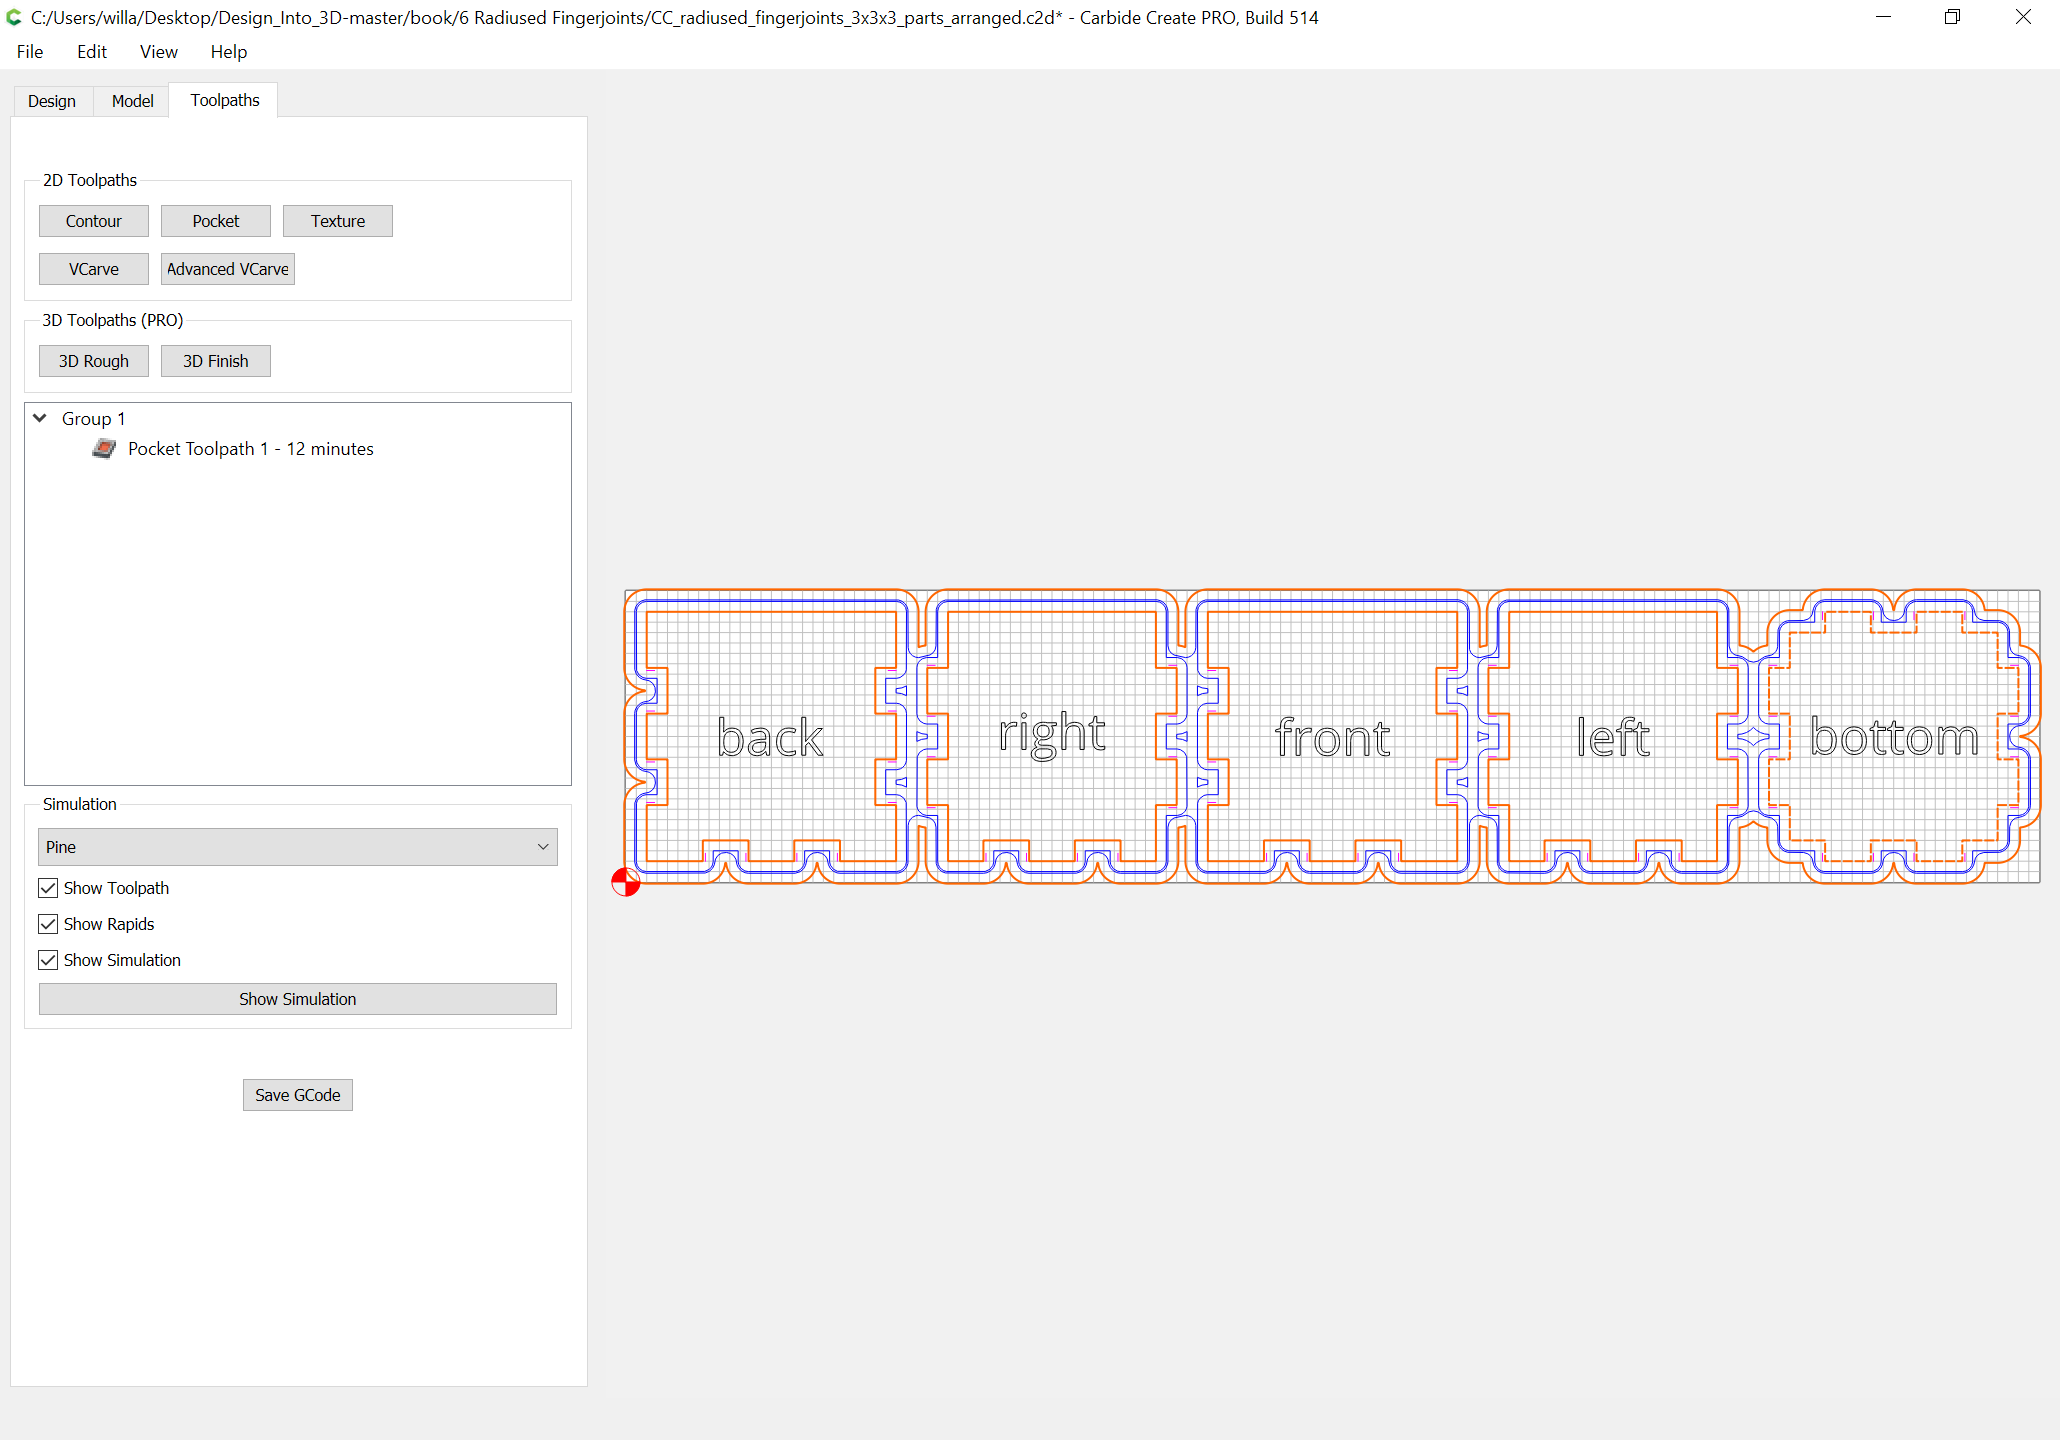
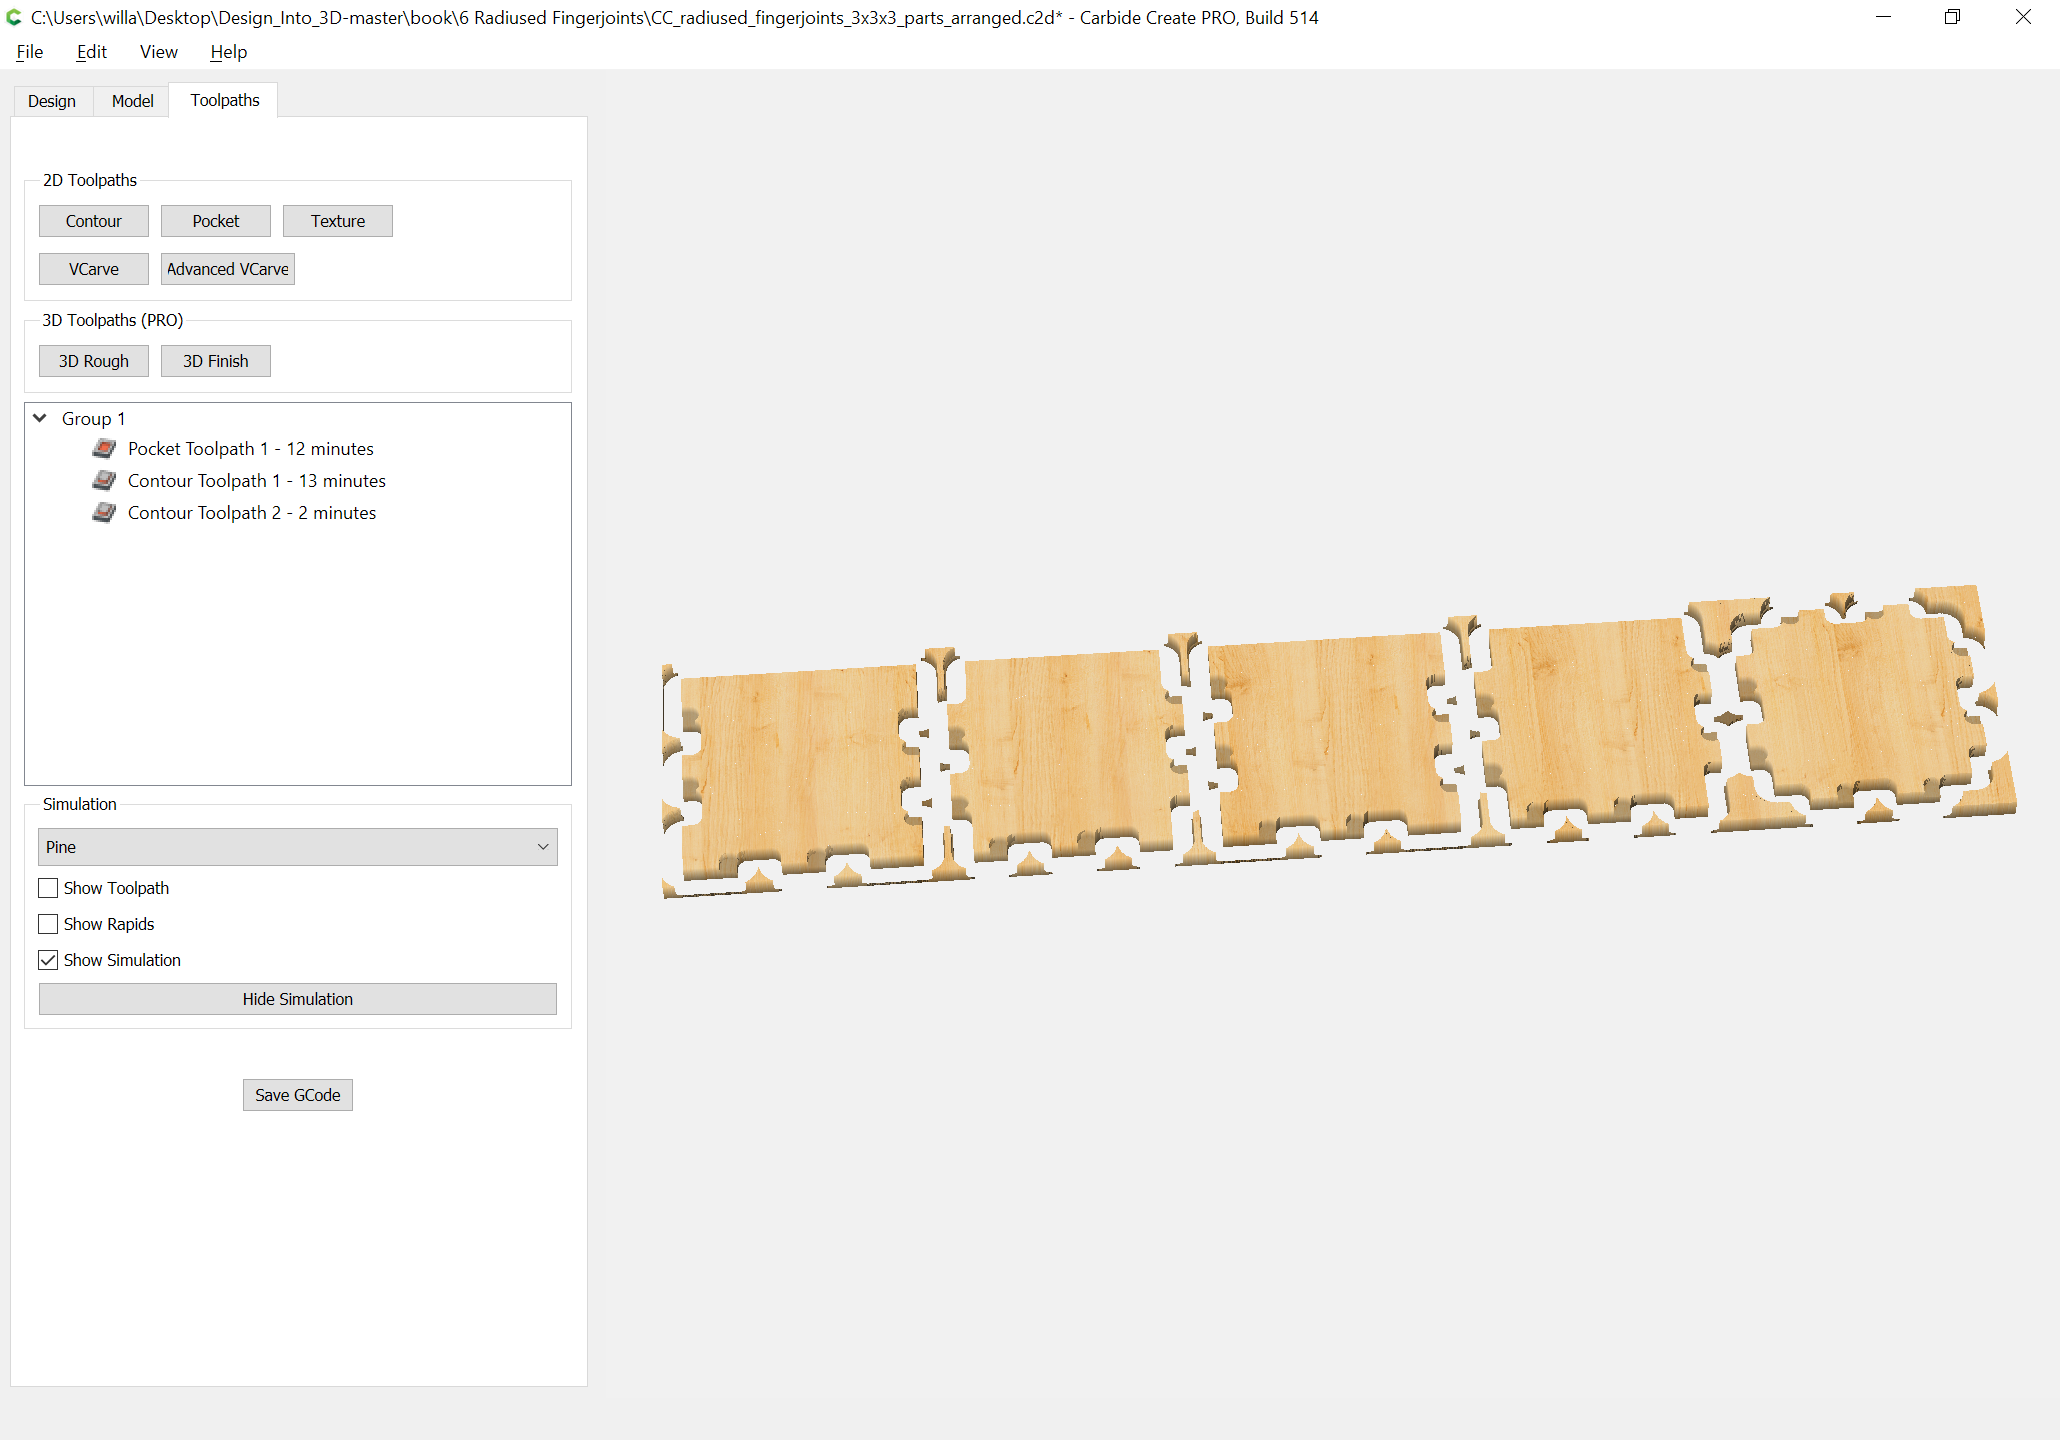
GitBook: [master] one page and 3 assets modified

diff --git a/radiused-fingerjoints.md b/radiused-fingerjoints.md
@@ -176,15 +176,19 @@ With the parts laid out, select the part outlines and offset them a suitable dis
 
 Select the outline and the parts and assign a pocket toolpath which will cut down to tab depth:
 
-![Carbide Create: Box: 3&quot; x 3&quot; x 3&quot;: Parts Toolpath](.gitbook/assets/image%20%2828%29.png)
+![Carbide Create: Box: 3&quot; x 3&quot; x 3&quot;: Parts Toolpath](.gitbook/assets/image%20%2829%29.png)
 
 Select the lines for the relief cut, select a suitable tool and assign it a suitable tool cutting to a depth which will cut the relief \(in this case 0.125"\) ― the actual tool used doesn't matter since it's not possible to get a correct preview, but matching the outer diameter if convenient will help in verifying the cut:
 
-![Carbide Create: Box: 3&quot; x 3&quot; x 3&quot;: Radius Toolpath](.gitbook/assets/image%20%2829%29.png)
+![Carbide Create: Box: 3&quot; x 3&quot; x 3&quot;: Radius Toolpath](.gitbook/assets/image%20%2830%29.png)
 
 Next add an outer profile toolpath to cut out the parts:
 
 ![Carbide Create: Box: 3&quot; x 3&quot; x 3&quot;: Profile Toolpath](.gitbook/assets/image%20%2826%29.png)
+
+And preview insofar as is possible:
+
+![Carbide Create: Box: 3&quot; x 3&quot; x 3&quot;: Preview using square endmills](.gitbook/assets/image%20%2828%29.png)
 
 Lastly generate the G-Code, secure the stock, set zero relative to it, and cut the part out.
 
